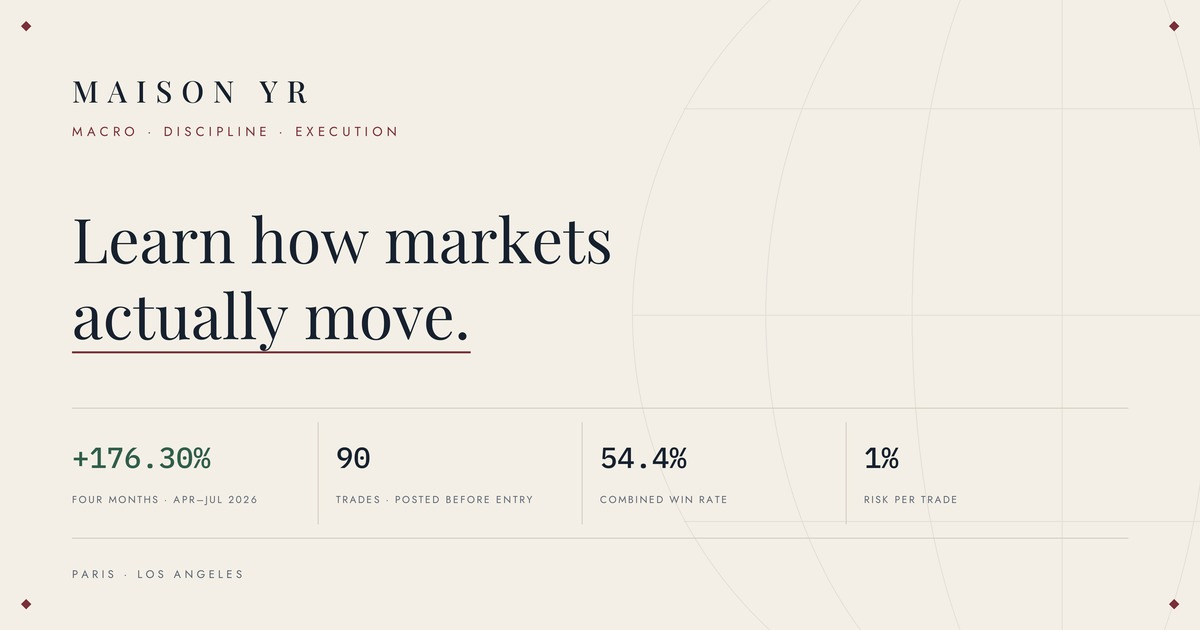
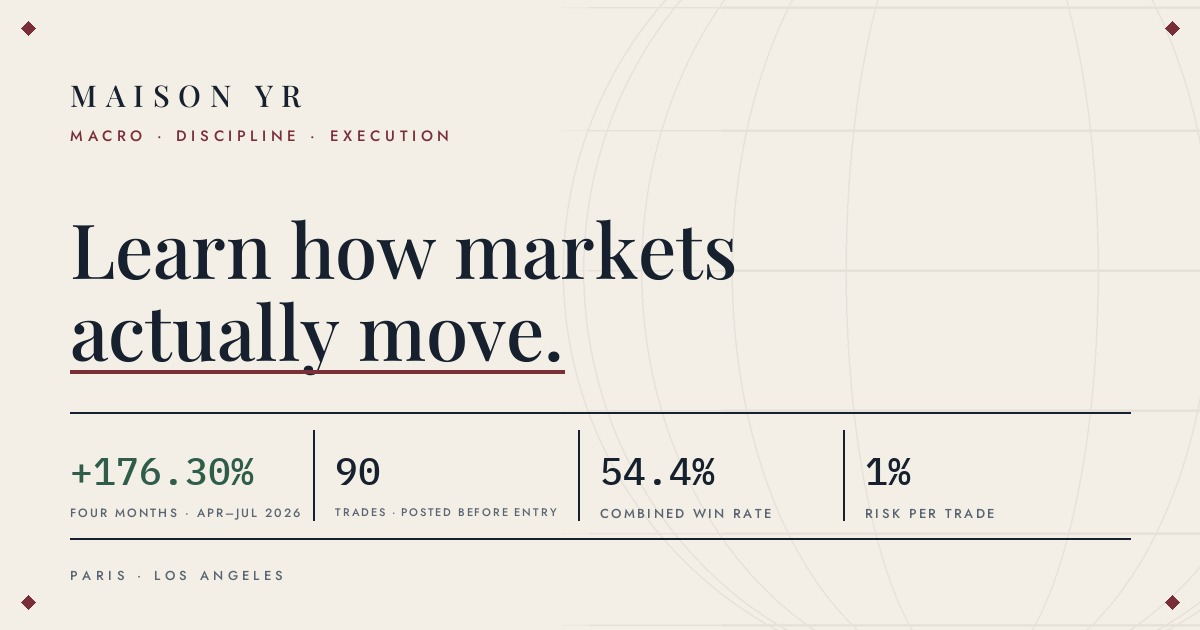
Give /start its own share card instead of reusing the homepage one
Both bio links previewed with the identical image, so the free door and the
sales page were indistinguishable in a feed, a DM or a link list.

- New assets/og_start.jpg — same house system (cream, Playfair, one wine
  underline, mono stats, the meridian engraving at ~6%) but it promises
  teaching, not performance: 10 chapters from zero, 2 Macro School chapters
  open, free, the Sunday seminar. No record figure on it by design; a free
  learning page fronted by a return number reads like the thing this house
  is built to oppose.
- /start now points at it (og:image, twitter:image, og:image:alt).
- Both cards now render from 01_SCRIPTS/og_cards.py so they stay a matched
  pair; the homepage card was previously hand-made with no source.

Needs a Scrape Again in the Sharing Debugger for Meta to pick the new one up.

diff --git a/start/index.html b/start/index.html
@@ -10,14 +10,14 @@
 <meta property="og:type" content="website"/>
 <meta property="og:url" content="https://maisonyrtrading.com/start/"/>
 <meta property="og:site_name" content="MAISON YR"/>
-<meta property="og:image" content="https://maisonyrtrading.com/assets/og_maison_yr.jpg"/>
+<meta property="og:image" content="https://maisonyrtrading.com/assets/og_start.jpg"/>
 <meta property="og:image:width" content="1200"/>
 <meta property="og:image:height" content="630"/>
-<meta property="og:image:alt" content="MAISON YR — Macro, Discipline, Execution. +176.30% across four months, 90 trades, every one posted before entry or called live."/>
+<meta property="og:image:alt" content="MAISON YR — The Macro Starter Pack, free. Ten chapters from absolute zero, two Macro School chapters open, and a live seminar every other Sunday."/>
 <meta name="twitter:card" content="summary_large_image"/>
 <meta name="twitter:title" content="Start Here — MAISON YR"/>
 <meta name="twitter:description" content="Ten chapters from absolute zero: what actually moves markets. Free — with a live seminar every other Sunday, the receipt wall and the public record beside it."/>
-<meta name="twitter:image" content="https://maisonyrtrading.com/assets/og_maison_yr.jpg"/>
+<meta name="twitter:image" content="https://maisonyrtrading.com/assets/og_start.jpg"/>
 <link rel="canonical" href="https://maisonyrtrading.com/start/"/>
 <meta name="theme-color" content="#F4EFE6"/>
 <script type="application/ld+json">
